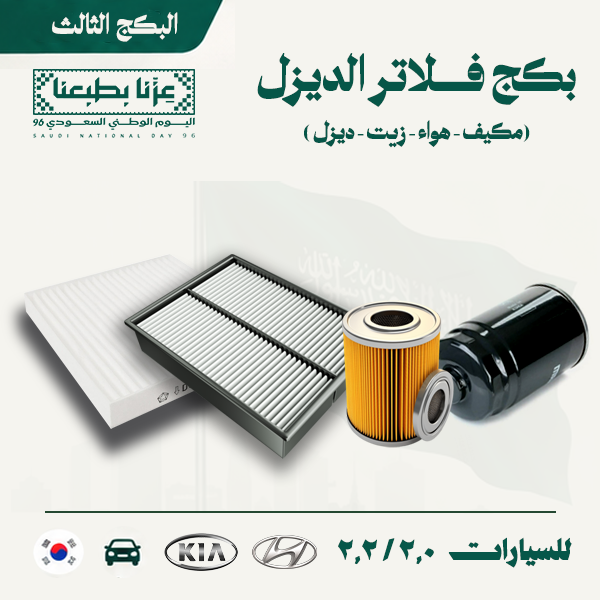
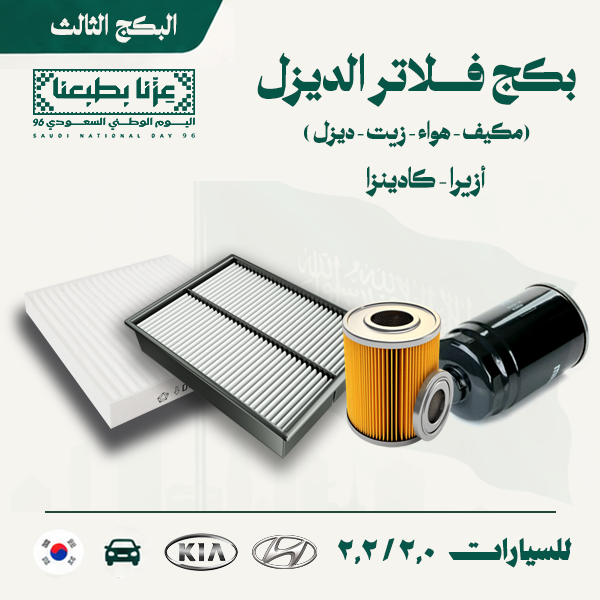
Align titles and pricing boxes across all 5 bundle cards on one line, and update images for Bundle 3 and 5

diff --git a/index.html b/index.html
@@ -625,12 +625,12 @@
               </div>
               
               <!-- Product Title -->
-              <h3 class="font-heading font-black text-sm sm:text-base text-slate-900 leading-snug min-h-[42px] flex items-center">
+              <h3 class="font-heading font-black text-xs sm:text-sm text-slate-900 leading-snug h-[54px] sm:h-[60px] flex items-center">
                 بكج الفحمات (أمامي + خلفي) كوري
               </h3>
 
               <!-- Pricing Box (Store Style) -->
-              <div class="mt-2 p-2.5 rounded-xl bg-emerald-50/70 border border-emerald-200 flex items-baseline justify-between">
+              <div class="mt-2 p-2.5 rounded-xl bg-emerald-50/70 border border-emerald-200 h-[52px] flex items-center justify-between">
                 <div class="flex items-baseline gap-1.5">
                   <span class="text-2xl font-black font-numbers text-emerald-800">96</span>
                   <span class="text-xs font-bold text-slate-700">ر.س</span>
@@ -681,12 +681,12 @@
               </div>
               
               <!-- Product Title -->
-              <h3 class="font-heading font-black text-sm sm:text-base text-slate-900 leading-snug min-h-[42px] flex items-center">
+              <h3 class="font-heading font-black text-xs sm:text-sm text-slate-900 leading-snug h-[54px] sm:h-[60px] flex items-center">
                 بكج فلاتر الديزل (مكينة صغيرة 1.6 / 1.7)
               </h3>
 
               <!-- Pricing Box (Store Style) -->
-              <div class="mt-2 p-2.5 rounded-xl bg-teal-50/70 border border-teal-200 flex items-baseline justify-between">
+              <div class="mt-2 p-2.5 rounded-xl bg-teal-50/70 border border-teal-200 h-[52px] flex items-center justify-between">
                 <div class="flex items-baseline gap-1.5">
                   <span class="text-2xl font-black font-numbers text-teal-800">236</span>
                   <span class="text-xs font-bold text-slate-700">ر.س</span>
@@ -728,21 +728,15 @@
                   class="w-full h-full object-cover group-hover:scale-105 transition-transform duration-300"
                   loading="lazy"
                 >
-                <span class="absolute top-2 right-2 bg-sky-700 text-white text-[10px] font-black px-2 py-0.5 rounded-md shadow">
-                  البكج الثالث 🇸🇦
-                </span>
-                <span class="absolute top-2 left-2 bg-amber-400 text-slate-950 text-[10px] font-black px-2 py-0.5 rounded-md shadow">
-                  وفر 100 ر.س
-                </span>
               </div>
               
               <!-- Product Title -->
-              <h3 class="font-heading font-black text-sm sm:text-base text-slate-900 leading-snug min-h-[42px] flex items-center">
-                بكج فلاتر ديزل (أزيرا - كادينزا) مكينة كبيرة 2.0 / 2.2
+              <h3 class="font-heading font-black text-xs sm:text-sm text-slate-900 leading-snug h-[54px] sm:h-[60px] flex items-center">
+                بكج فلاتر ديزل (أزيرا - كادينزا) 2.0 / 2.2
               </h3>
 
               <!-- Pricing Box (Store Style) -->
-              <div class="mt-2 p-2.5 rounded-xl bg-sky-50/70 border border-sky-200 flex items-baseline justify-between">
+              <div class="mt-2 p-2.5 rounded-xl bg-sky-50/70 border border-sky-200 h-[52px] flex items-center justify-between">
                 <div class="flex items-baseline gap-1.5">
                   <span class="text-2xl font-black font-numbers text-sky-800">366</span>
                   <span class="text-xs font-bold text-slate-700">ر.س</span>
@@ -793,12 +787,12 @@
               </div>
               
               <!-- Product Title -->
-              <h3 class="font-heading font-black text-sm sm:text-base text-slate-900 leading-snug min-h-[42px] flex items-center">
+              <h3 class="font-heading font-black text-xs sm:text-sm text-slate-900 leading-snug h-[54px] sm:h-[60px] flex items-center">
                 بكج فلاتر سيارات بنزين أصلي
               </h3>
 
               <!-- Pricing Box (Store Style) -->
-              <div class="mt-2 p-2.5 rounded-xl bg-amber-50/70 border border-amber-200 flex items-baseline justify-between">
+              <div class="mt-2 p-2.5 rounded-xl bg-amber-50/70 border border-amber-200 h-[52px] flex items-center justify-between">
                 <div class="flex items-baseline gap-1.5">
                   <span class="text-2xl font-black font-numbers text-amber-800">196</span>
                   <span class="text-xs font-bold text-slate-700">ر.س</span>
@@ -840,21 +834,15 @@
                   class="w-full h-full object-cover group-hover:scale-105 transition-transform duration-300"
                   loading="lazy"
                 >
-                <span class="absolute top-2 right-2 bg-indigo-700 text-white text-[10px] font-black px-2 py-0.5 rounded-md shadow">
-                  البكج الخامس 🇸🇦
-                </span>
-                <span class="absolute top-2 left-2 bg-amber-400 text-slate-950 text-[10px] font-black px-2 py-0.5 rounded-md shadow">
-                  وفر 94 ر.س
-                </span>
               </div>
               
               <!-- Product Title -->
-              <h3 class="font-heading font-black text-sm sm:text-base text-slate-900 leading-snug min-h-[42px] flex items-center">
-                بكج فلاتر ديزل (توسان - سبورتاج) مكينة كبيرة 2.0 / 2.2
+              <h3 class="font-heading font-black text-xs sm:text-sm text-slate-900 leading-snug h-[54px] sm:h-[60px] flex items-center">
+                بكج فلاتر ديزل (توسان - سبورتاج) 2.0 / 2.2
               </h3>
 
               <!-- Pricing Box (Store Style) -->
-              <div class="mt-2 p-2.5 rounded-xl bg-indigo-50/70 border border-indigo-200 flex items-baseline justify-between">
+              <div class="mt-2 p-2.5 rounded-xl bg-indigo-50/70 border border-indigo-200 h-[52px] flex items-center justify-between">
                 <div class="flex items-baseline gap-1.5">
                   <span class="text-2xl font-black font-numbers text-indigo-800">256</span>
                   <span class="text-xs font-bold text-slate-700">ر.س</span>
